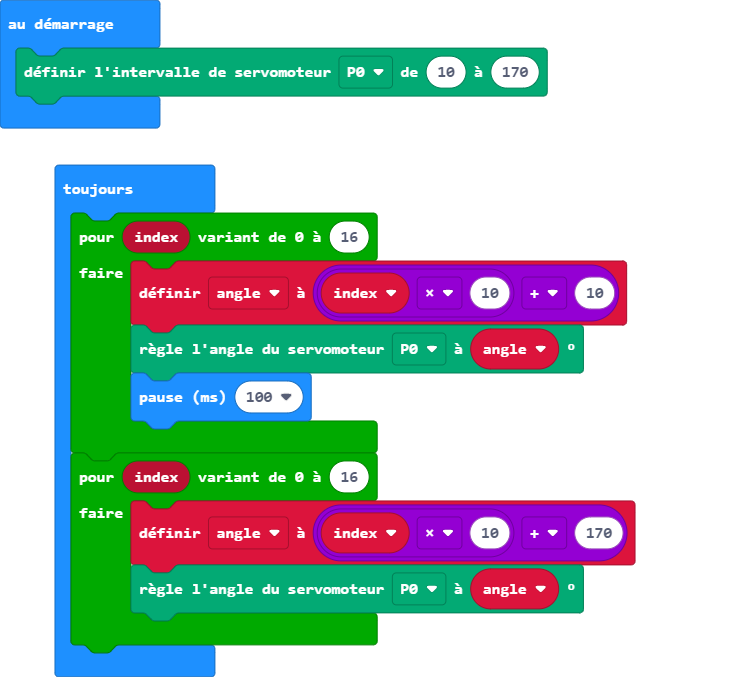
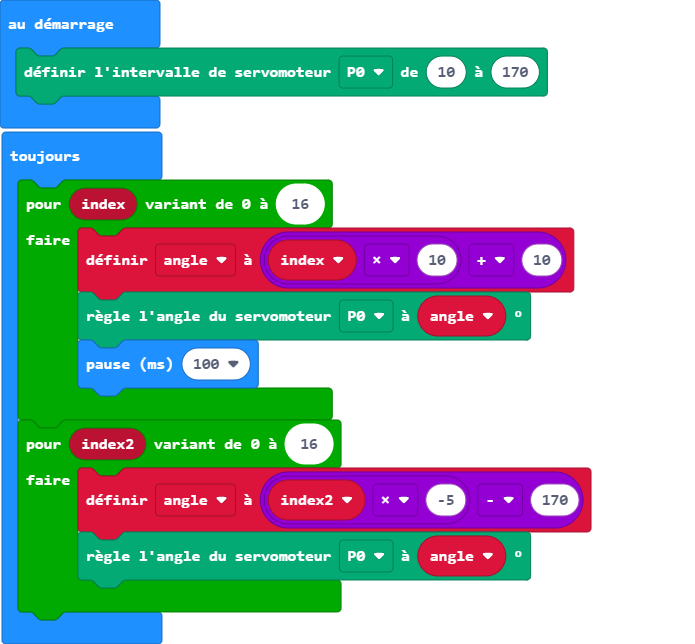
Mise à jour pxt.json, main.blocks, main.ts, main.py

diff --git a/main.ts b/main.ts
@@ -6,8 +6,8 @@ basic.forever(function () {
         servos.P0.setAngle(angle)
         basic.pause(100)
     }
-    for (let index = 0; index <= 16; index++) {
-        angle = index * 10 + 170
+    for (let index2 = 0; index2 <= 16; index2++) {
+        angle = index2 * -5 - 170
         servos.P0.setAngle(angle)
     }
 })

diff --git a/main.py b/main.py
@@ -1,0 +1,13 @@
+angle = 0
+servos.P0.set_range(10, 170)
+
+def on_forever():
+    global angle
+    for index in range(17):
+        angle = index * 10 + 10
+        servos.P0.set_angle(angle)
+        basic.pause(100)
+    for index2 in range(17):
+        angle = index2 * 170 - 5
+        servos.P0.set_angle(angle)
+basic.forever(on_forever)
